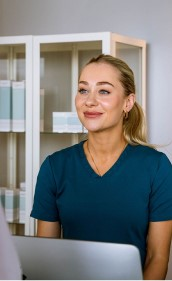
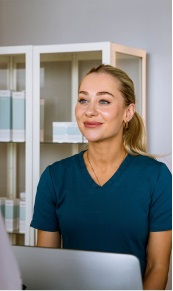
upd photo

diff --git a/src/components/BuyGift/BuyGift.jsx b/src/components/BuyGift/BuyGift.jsx
@@ -35,7 +35,7 @@ export const BuyGift = ({ back = false }) => {
               height="524"
               alt=""
             />
-            <img src={BuyGiftMob2} width="182" height="291" alt="" />
+            <img src={BuyGiftMob2} width="172" height="291" alt="" />
           </picture>
         </BuyGiftImgContainer>
         <BuyGiftTextContainer>
